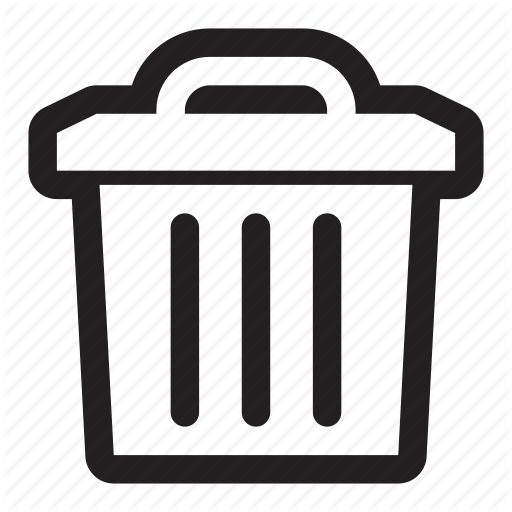
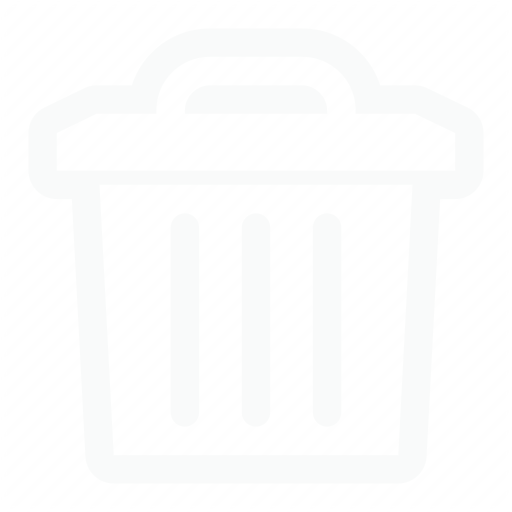
added dark image for trash

diff --git a/main.cpp b/main.cpp
@@ -62,7 +62,6 @@ To run on WIN32, the resource file is resource_file_windows.rc
  ---
 
  for MSW:
- - the Light version of trash icon has a gray background -> it should have a white background 
  - the Mercator projeciton ChartFrame is shown out of thescreeen
  - center name of file in top bar of ListFrame
  - write the WIN32 part of void MyApp::OnTimer
